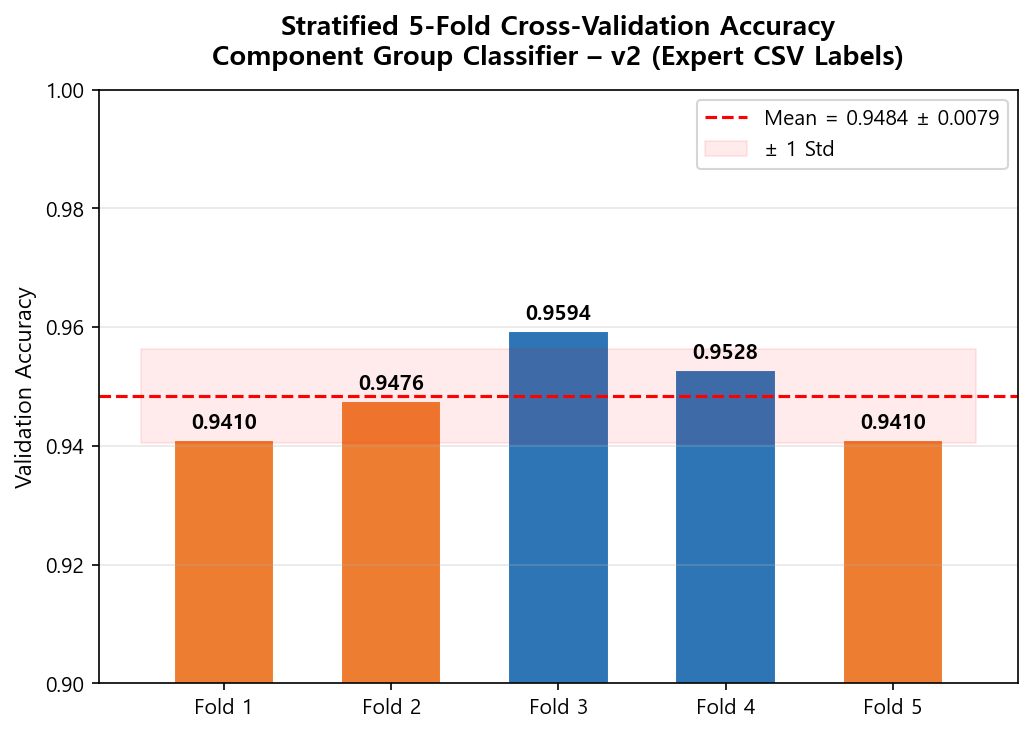
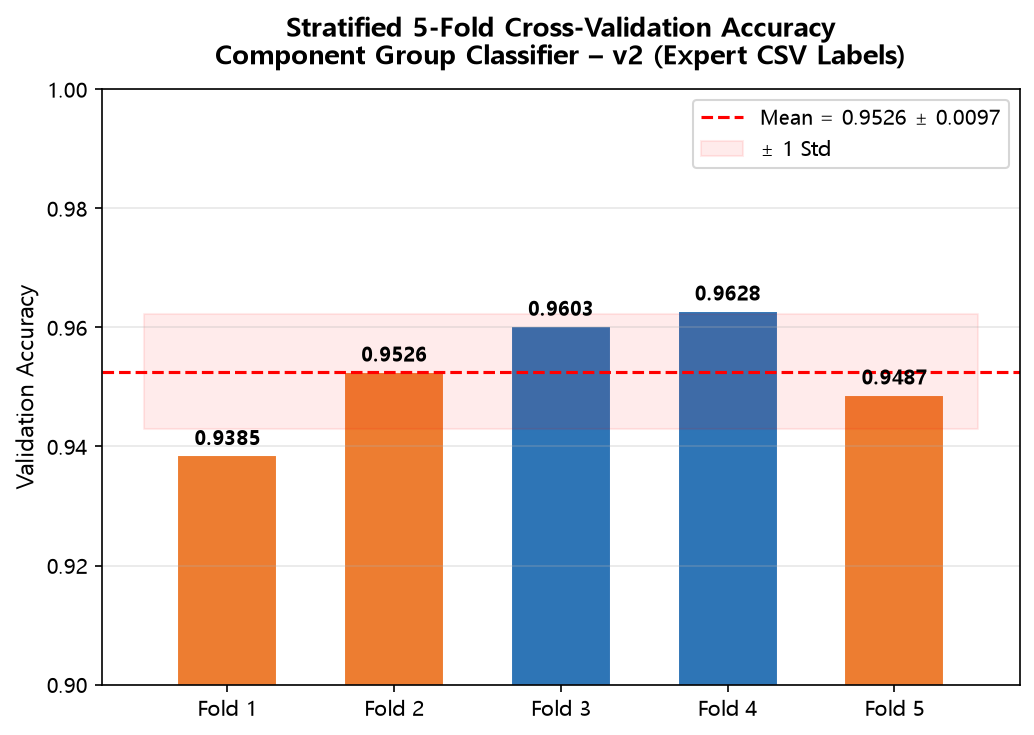
Fixed overfitting and changed some like categorical features to binary features. Added new features for connectors and geometry. Updated skey mapping for new component types.

diff --git a/pipe-component-ai/merge_unmatched_folders.py b/pipe-component-ai/merge_unmatched_folders.py
@@ -49,16 +49,16 @@ MAPPINGS = [
     ("UT PIPING_20180327_PO2",     "UT PIPING_20180327"),
     ("UT PIPING_20180327_SOLVENT", "UT PIPING_20180327"),
 
-    # NOT INCLUDED (needs manual review first - different export dates,
-    # could be different model versions, not just naming variants):
-    #   IC-M16P2-W12B-1F3F-PI-NA-NA(2021.11.10)      -> 448 files
-    #   IC-M16P2-W12B-1F3F-PI-NA-NA(2022.01.19)      -> 450 files
-    #   IC-M16P2-W12B-1F3F-PI-NA-NA_26ab255b         -> 259 files
-    #   IC-M16P2-W12B-1F3F-PI-NA-NA_(4개 라인)detached -> 17 files
-    # If you confirm these ARE the same model, add them here mapped to:
-    #   "IC-M16P2-W12B-1F3F-PI-NA-NA(400A-500A EDIT)"
+    # Added after confirming the merge technique is safe (matched by
+    # content, not just filename - the UT PIPING batch showed 0 CSV
+    # matching failures out of ~204 merged files). These are the big
+    # ones - 1,174 files combined across 4 folders.
+    ("IC-M16P2-W12B-1F3F-PI-NA-NA(2021.11.10)",           "IC-M16P2-W12B-1F3F-PI-NA-NA(400A-500A EDIT)"),
+    ("IC-M16P2-W12B-1F3F-PI-NA-NA(2022.01.19)",           "IC-M16P2-W12B-1F3F-PI-NA-NA(400A-500A EDIT)"),
+    ("IC-M16P2-W12B-1F3F-PI-NA-NA_26ab255b",              "IC-M16P2-W12B-1F3F-PI-NA-NA(400A-500A EDIT)"),
+    ("IC-M16P2-W12B-1F3F-PI-NA-NA_(4개 라인)detached",     "IC-M16P2-W12B-1F3F-PI-NA-NA(400A-500A EDIT)"),
 
-    # Also worth reviewing before adding:
+    # Still worth reviewing before adding (smaller, lower priority):
     # ("CJ_M15M01ALL_PP_XX_Chemical_EZ-ISO_2019", "CJ_M15M01ALL_FF_1F_A_EZ-Iso_2018"),
     # ("Project2_b2967378", "Project1_2018"),
     # ("S32_FBALO_UPI_SAMPLING_2_b55bd123", "S32_FBALO_UPI_SAMPLING_1_"),
